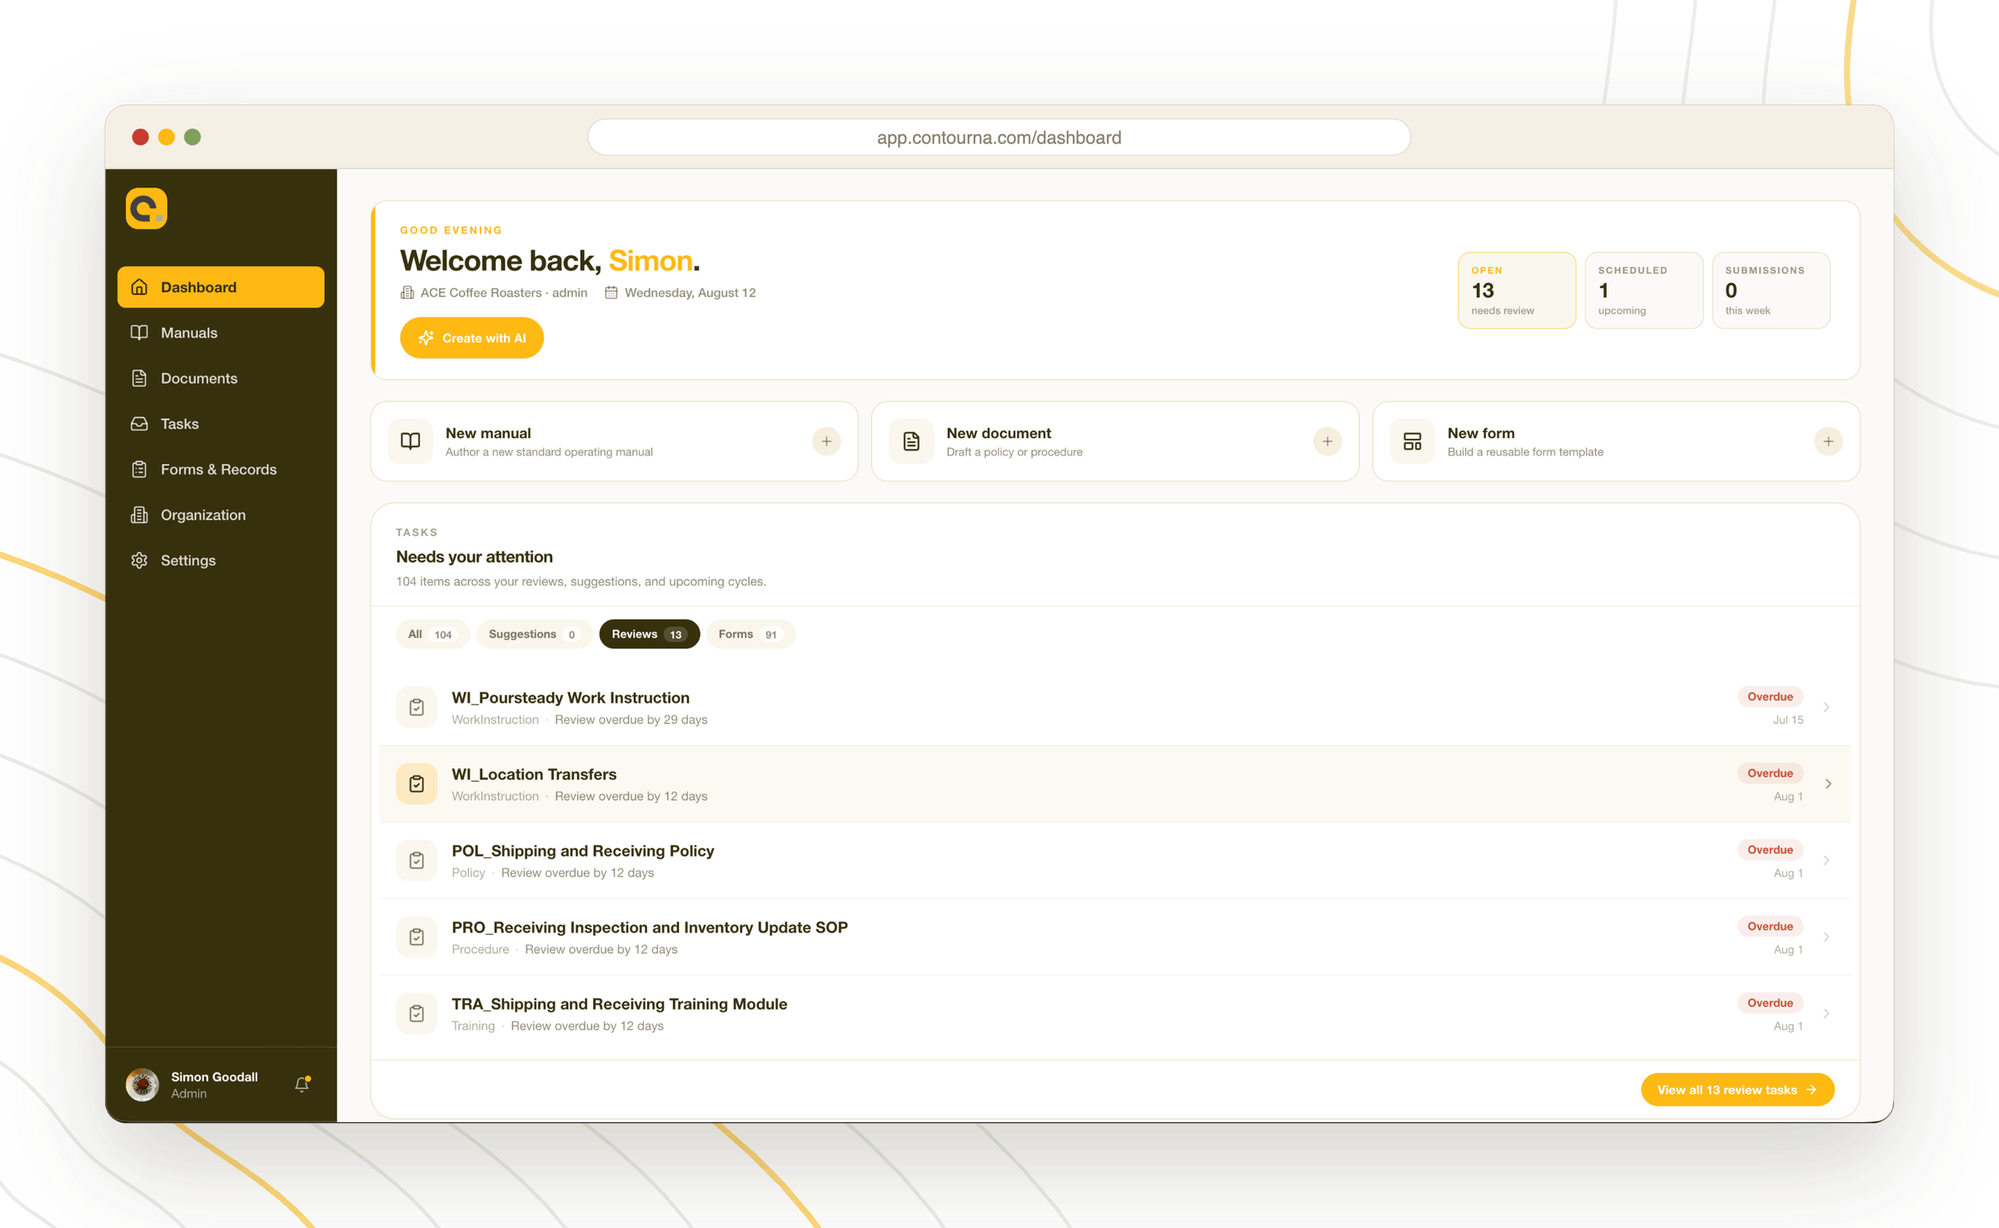
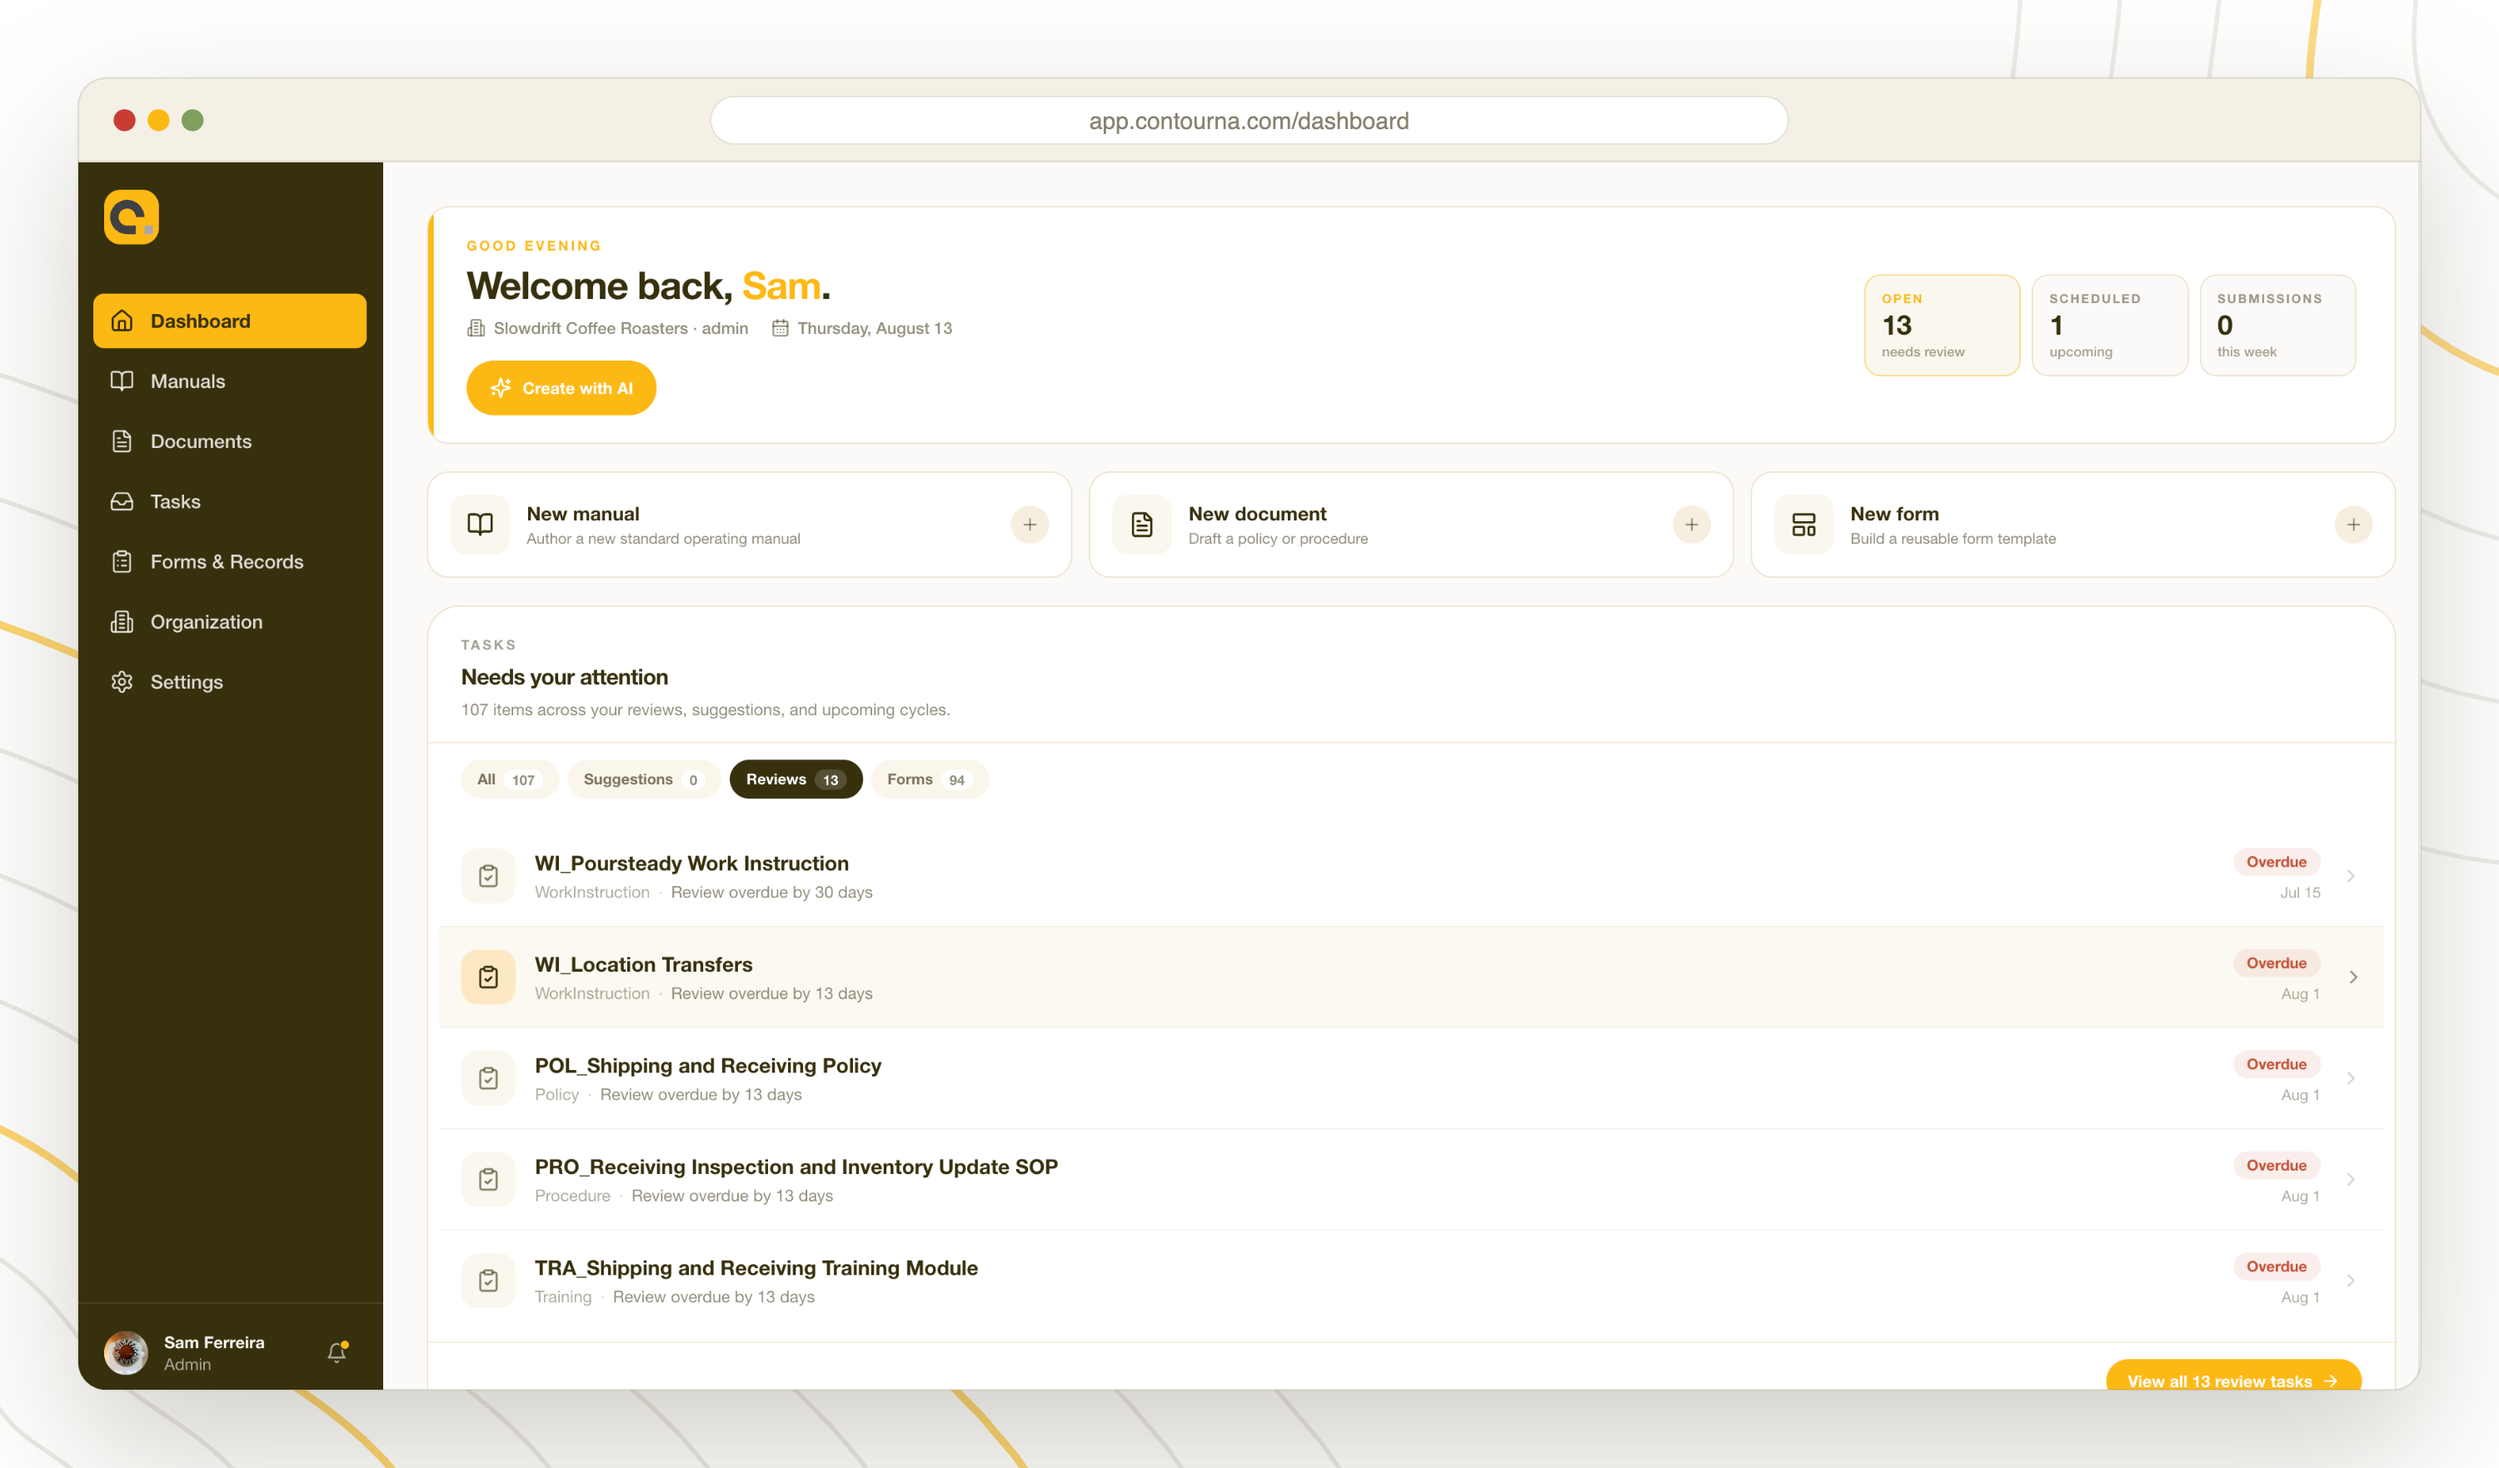
feat: refresh dashboard and form builder screenshots
Swap the forms band to the light form-builder-mock.png and update both
images to their real pixel dimensions so next/image reserves the right
aspect ratio.

diff --git a/src/components/marketing/MarketingHome.tsx b/src/components/marketing/MarketingHome.tsx
@@ -123,8 +123,8 @@ function Hero() {
           <Image
             src="/images/dashboard-home.png"
             alt="Contourna dashboard showing open review counts, quick actions for a new manual, document, or form, and a Needs your attention task list of overdue reviews"
-            width={2400}
-            height={1475}
+            width={3000}
+            height={1763}
             className="relative h-auto w-full rounded-2xl"
             quality={82}
             preload
@@ -603,10 +603,10 @@ function FormsBand() {
           </a>
         </div>
         <Screenshot
-          src="/images/form-builder-mock-dark.png"
-          alt="Contourna form builder generating an inventory adjustment request form, with a field properties panel and a Form Generated confirmation"
-          width={1800}
-          height={1350}
+          src="/images/form-builder-mock.png"
+          alt="Contourna form builder generating a production stock adjustment request form, with a field properties panel and a Form Generated confirmation"
+          width={3000}
+          height={1836}
           sizes="(max-width: 1024px) 100vw, 55vw"
           bare
         />
